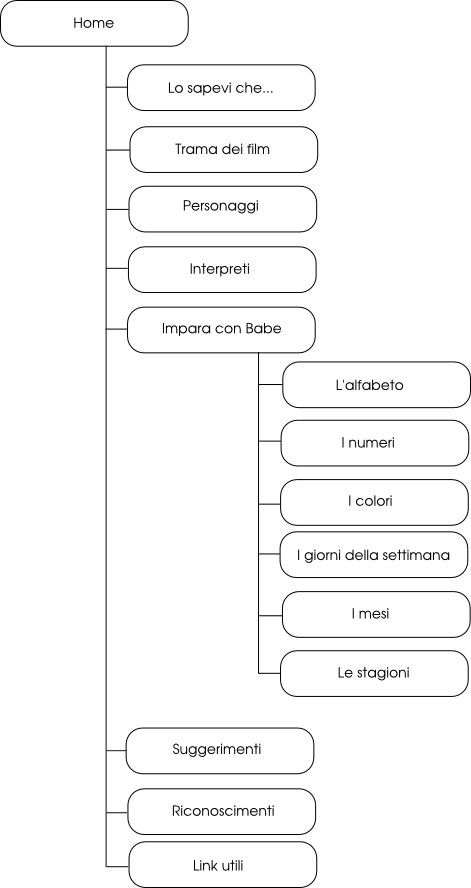
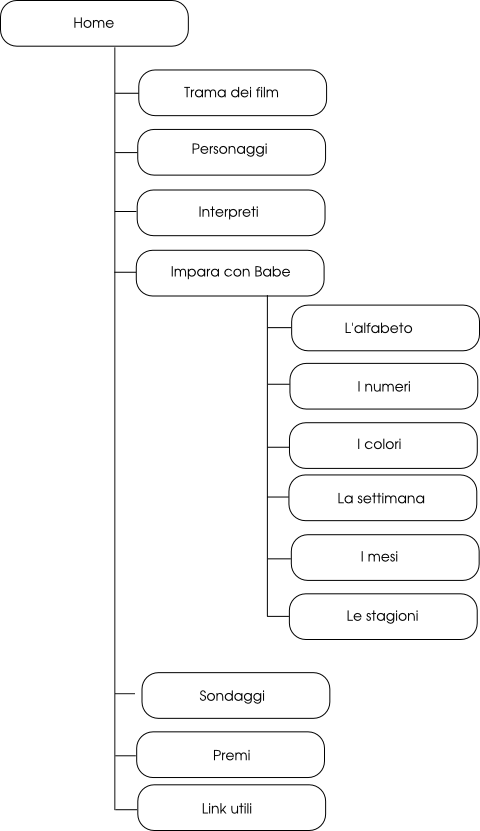
ultime modifiche

Changed region(s): [[0.0, 0.0, 1.0, 1.0]]

diff --git a/Sito Babe/public_html/NormalLayout.css b/Sito Babe/public_html/NormalLayout.css
@@ -161,7 +161,7 @@ table.interpreti {
 	font-size: .9em;
 }
 th {
-	background-color: rgba(246, 195, 102, 0.4);
+	background-color: rgba(255, 255, 204, 0.4);
 	border-width: 2px;
 	border-style: solid;
 	border-color: #000000;
@@ -171,10 +171,10 @@ td {
 	padding-right: 1em;
 }
 tr {
-	background-color: rgba(252, 204, 111, 0.4);
+	background-color: rgba(252, 204, 153, 0.4);
 }
 tr.alt {
-	background-color: rgba(255, 255, 255, 0.1);
+	background-color: rgba(255, 255, 204, 0.1);
 }
 
 a.skip {

diff --git a/Sito Babe/public_html/Relazione/Relazione.tex b/Sito Babe/public_html/Relazione/Relazione.tex
@@ -139,14 +139,12 @@ Si tratta di un sito didattico che ha lo scopo di sensibilizzare i bambini sul t
 \clearpage
 
 \section{Analisi dei requisiti}
-Il sito è stato pensato per avere come target di utenti i bambini. Essendoci contenuti adatti a bambini anche molto piccoli, è chiaro che la consultazione si presume avvenga tramite altre persone quali gli insegnanti o i genitori dei bimbi. 
-Il sito offre delle schede didattiche che hanno lo scopo di aiutare insegnanti e/o genitori a spiegare i primi rudimenti ai bambini.
-In particolare, il sito potrebbe essere utilizzato dalle strutture che dispongono di LIM (lavagne interattive multimediali).
-Essendo un sito rivolto ai bambini si è cercato di renderlo simpatico e colorato soprattutto tramite l'inserimento di molte immagini. Inoltre si sono usati caratteri abbastanza grandi, per permettere ai bambini di vedere con facilità.
+Il sito è stato pensato per avere come target di utenti di riferimento i bambini. Essendoci contenuti adatti a bambini anche molto piccoli, si è fatta inoltre l'assunzione che la consultazione possa avvenire tramite altre persone quali gli insegnanti o i genitori dei bimbi tanto in sede domestica che scolastica. 
 
-% chi sono i destinatari del sito, quali sono le loro necessita' e come le soddisfiamo
-% font, colori, immagini
-% sito pensato per lavagne interattive multimediali (LIM) per essere utilizzata negli asili
+Il sito offre una vasta gamma di schede didattiche che hanno lo scopo di aiutare insegnanti e/o genitori a spiegare i primi rudimenti ai bambini.
+In particolare, il sito potrebbe essere utilizzato da strutture che dispongono di LIM (lavagne interattive multimediali).
+
+Trattandosi di un sito rivolto ai più piccoli, si è cercato di renderlo simpatico, colorato e accattivante agli occhi di un pubblico infantile soprattutto tramite l'inserimento di molte immagini. Inoltre sono stati utilizzati caratteri dalle dimensioni sufficientemente grandi, per permettere ai bambini di vedere con facilità anche in fase di apprendimento della lettura.
 
 \subsection{Scelte per il posizionamento sui motori di ricerca}
 Nella progettazione del sito, alcune scelte sono state dettate dall'esigenza di attuare strategie di ottimizzazione per i motori di ricerca.
@@ -162,7 +160,7 @@ In terzo luogo, come sarà illustrato con maggiori dettagli nella sezione \ref{s
 
 Infine, si è posta particolare attenzione all'utilizzo dei tag \texttt{<meta>}, in particolare \texttt{description}, \texttt{keywords} e \texttt{rating}. È stata infatti inserita una descrizione significativa specifica per ogni singola pagina, pensata per essere accattivante se visualizzata in una SERP (\inglese{search engine response page}).
 
-Le parole chiave sono state selezionate in modo specifico per ogni pagina, scegliendo tra i termini che compaiono nelle posizioni più ``prominenti'' (intestazioni, elenchi, collegamenti, enfasi) ed effettivamente presenti nel contenuto della pagina. Inoltre, il numero di parole chiave è stato mantenuto contenuto a un numero inferiore a dieci.
+Le parole chiave sono state selezionate anch'esse in modo specifico per ogni pagina, scegliendo tra i termini che compaiono nelle posizioni più ``prominenti'' (intestazioni, elenchi, collegamenti, enfasi) ed effettivamente presenti nel contenuto della pagina. Inoltre, il numero di parole chiave è stato mantenuto contenuto a un numero inferiore a dieci.
 
 La valutazione del contenuto di tutte le pagine è stata impostata a \texttt{safe for kids}, una scelta le cui ragioni sono da ravvisarsi nel fatto che il sito ha una finalità didattica per bambini, e quindi gli autori hanno tutto l'interesse a presentare contenuti sicuri e adatti al pubblico dei più piccoli.
 
@@ -191,7 +189,7 @@ Nei livelli sottostanti della gerarchia si è invece adottata la struttura organ
 Pur essendo il sito orientato alla didattica, non si è ritenuta necessaria l'adozione di una struttura organizzativa sequenziale perché gli insegnamenti impartiti sono talmente basilari e scorrelati gli uni dagli altri da non necessitare l'imposizione di un percorso obbligato.
 
 \subsection{Layout delle pagine}
-Per quanto riguarda il \inglese{design} delle pagine, la scelta per il dimensionamento degli elementi è stata la creazione di un \inglese{layout} fluido, in grado di adattarsi alle dimensioni (in particolare sull'asse orizzontale) dello schermo. Ovunque fosse possibile le misure sono state espresse in unità relative, come le percentuali tanto per la dimensione dei contenitori di testo quanto per le immagini.
+Per quanto riguarda il \inglese{design} delle pagine, la scelta per il dimensionamento degli elementi è stata la creazione di un \inglese{layout} fluido, in grado di adattarsi alle dimensioni (in particolare sull'asse orizzontale) dello schermo. Ovunque fosse possibile le misure sono state espresse in unità relative, come le percentuali, tanto per la dimensione dei contenitori di testo quanto per le immagini.
 
 % TODO spiegare come è stato ottenuto l'effetto dello sfondo a parallasse
 
@@ -203,7 +201,7 @@ In relazione al supporto ai caratteri, si è scelto di utilizzare nel foglio di 
 \end{verbatim}
 in modo da assicurare una visualizzazione simile su ogni dispositivo indipendentemente dal sistema operativo e dai font tipografici supportati.
 
-Per assicurare un buon grado di uniformità nella visualizzazione dei colori si sono utilizzati esclusivamente colori \inglese{web-safe} vale a dire i colori che nella loro rappresentazione esadecimale contengono solo le cifre \verb+0+, \verb+3+, \verb+6+, \verb+9+, \verb+c+ e \verb+f+.
+Per assicurare un buon grado di uniformità nella visualizzazione dei colori si sono utilizzati esclusivamente colori \inglese{web-safe} vale a dire i colori che nella loro rappresentazione esadecimale contengono solo le cifre \verb+0+, \verb+3+, \verb+6+, \verb+9+, \verb+c+ e \verb+f+ (ripetute).
 
 Per garantire una trasformazione elegante del \inglese{layout} in tutte le circostanze e, in particolare:
 \begin{enumerate}[noitemsep,nolistsep,label=\emph{\alph*})]
@@ -217,23 +215,21 @@ Infine è stato predisposto un CSS alternativo per i \inglese{media} paginati e,
 
 Inoltre, dal momento che su carta le funzionalità ipertestuali o di navigazione si trovano per loro natura ad essere snaturate, è stato rimosso il menu di navigazione e i collegamenti sono stati uniformati al resto del contenuto testuale.
 
+\clearpage
 \section{Mappa del sito}
-\begin{figure}[tb]
-\centering
-\includegraphics[width=.8\textwidth]{mappasito.png}
-\caption{Organizzazione delle pagine del sito}
-\end{figure}
+\includegraphics[width=.9\textwidth]{mappasito.png}
+
 
 \clearpage
 
 \section{Accessibilità}\label{sec:accessibility}
 
 \subsection{Il testo}\label{sec:testoaccessibile}
-Per quanto riguarda il testo si è cercato di fare particolare attenzione alla dimensione e ai font utilizzati. Infatti, essendo un sito per bambini è bene avere un testo facilmente leggibile sia in relazione alla dimensione che ai font utilizzati.
+Per quanto riguarda il testo, si è cercato di fare particolare attenzione alla dimensione e ai font utilizzati. Infatti, essendo un sito per bambini è bene avere un testo facilmente leggibile sia in relazione alla dimensione che ai font utilizzati.
 
 Non si sono infatti impiegati font particolari e le dimensioni del testo sono assegnate con il parametro \texttt{em} che permette l'adattamento del testo in base alle caratteristiche desiderate dall'utente.  
 
-Si è inoltre cercato di utilizzare un linguaggio il più chiaro possibile visto che il pubblico a cui ci si rivolge sono i bambini è ancor più importante essere chiari e semplici.
+Si è inoltre cercato di utilizzare un linguaggio il più chiaro possibile, visto che il pubblico a cui ci si rivolge sono i bambini è ancor più importante essere chiari e semplici.
 
 Infine, laddove possibile, si è fatto uso di strutture enumerative (liste ordinate o non ordinate) per presentare le informazioni in forma schematica e più facilmente accessibile in quanto già strutturata e non ``appiattita'' in forma testuale.
 
@@ -244,19 +240,21 @@ In questo modo l'utente non è in alcun modo indotto in errore. Considerando che
 In particolare nella pagina \sitepage{ImparaConBabe.html} sono usate delle immagini per anticipare all'utente il contenuto della pagina di destinazione del link.
 Le immagini costituiscono un link insieme al testo  e perciò la zona su cui è necessario cliccare per accedere alle pagine è sufficientemente ampia da poter essere accessibile anche dalle persone che hanno difficoltà nel muovere il mouse.
 
-All'interno del sito sono presenti dei link esterni, in questo caso si è segnalato esplicitamente tramite l'immagine di un mondo che il link porta all'esterno del sito (ad esempio \sitepage{Stagioni.html}). Tale convenzione interna è stata mantenuta per tutte le pagine in cui comparivano dei collegamenti esterni, con il preciso intento di non deludere le aspettative dell'utente.
+All'interno del sito sono presenti dei link esterni, in questo caso si è segnalato esplicitamente tramite l'immagine di un mondo che il link porta all'esterno del sito (ad esempio \sitepage{Stagioni.html} o in \sitepage{LinkUtili.html}). Tale convenzione interna è stata mantenuta per tutte le pagine in cui comparivano dei collegamenti esterni, con il preciso intento di non deludere le aspettative dell'utente.
 
-Le pagine di dimensione verticale maggiore, ad esempio \sitepage{Alfabeto.html}, \sitepage{Mesi.html} o \sitepage{Trama.html} contengono inoltre dei collegamenti interni per tornare in cima alla pagina durante la navigazione. La pagina dei \sitepage{Personaggi.html}, oltre a questo tipo di collegamenti, permette di spostarsi da un personaggio all'altro durante la lettura. La pagina \sitepage{Mesi.html} contiene una filastrocca sui mesi che contiene un collegamento per ogni mese. La stessa cosa avviene per la pagina \sitepage{Giorni.html}, che contiene però una filastrocca sui giorni, con relativi collegamenti. Si è utilizzata tale tecnica solo con il fine di presentare la pagina in modo simpatico e permettere di muoversi liberamente all'interno delle pagine.
+Le pagine di dimensione verticale maggiore, ad esempio \sitepage{Alfabeto.html}, \sitepage{Mesi.html} o \sitepage{Trama.html} contengono inoltre dei collegamenti interni per tornare in cima alla pagina durante la navigazione. La pagina dei \sitepage{Personaggi.html}, oltre a questo tipo di collegamenti, permette di spostarsi da un personaggio all'altro durante la lettura.
 
+La pagina \sitepage{Mesi.html} contiene una filastrocca sui mesi che presenta un collegamento per ogni mese. La stessa cosa avviene per la pagina \sitepage{Giorni.html}, che contiene però una filastrocca sui giorni, con relativi collegamenti. Si è utilizzata tale tecnica solo con il fine di presentare la pagina in modo simpatico e permettere di muoversi liberamente all'interno delle pagine.
 
+Per rendere più rapida la navigazione si è scelto di offrire la possibilità di saltare gli elementi che esulano dal contenuto in senso stretto, ovvero il menu di navigazione, che si ripete uguale in ogni pagina e che dunque non necessita di essere letto ogni volta.
 
-Per rendere più rapida la navigazione si è scelto di offrire la possibilità di saltare gli elementi che esulano dal contenuto in senso stretto, quali il menu di navigazione o la lista dei \inglese{feed RSS} che si ripetono uguali in ogni pagina e che dunque non necessitano di essere letti ogni volta. A tal fine, sono stati inseriti dei collegamenti nascosti (impostando una posizione assoluta che ecceda il margine sinistro), che però risultano accessibili se si legge il solo contenuto testuale della pagina.
+A tal fine, sono stati inseriti dei collegamenti nascosti (impostando una posizione assoluta che ecceda il margine sinistro), che però risultano accessibili se si legge il solo contenuto testuale della pagina.
 
-Si è inoltre prestata particolare attenzione a evitare la presenza di link circolari, a rendere il testo delle ancore facilmente individuabile e, soprattutto, sufficientemente autoesplicativo riguardo alla posizione di destinazione (evitando accuratamente di utilizzare parole ``vuote'' o deittici come testo dei link).
-Inoltre, si è fatta attenzione a non rendere i link presenti nella \inglese{breadcrumbs}\footnote{%
-   \inglese{Breadcrumbs} significa letteralmente ``briciole di pane''. Si tratta di una tecnica utilizzata per aiutare l'utente a non perdersi all'interno del sito, fornendogli le traccie del percorso esplorativo da lui effettuato, proprio come Pollicino aveva lasciato le briciole di pane nel bosco per poter ritrovare la strada di casa.}adiacenti, separandoli tramite il carattere ``>''
+Si è inoltre prestata particolare attenzione a evitare la presenza di link circolari e a rendere il testo dei collegamenti facilmente individuabile e, soprattutto, sufficientemente autoesplicativo (evitando accuratamente di utilizzare parole ``vuote'' o deittici come ``clicca qui'').
+Inoltre, si è fatta attenzione a non rendere i link presenti nelle \inglese{breadcrumbs}\footnote{%
+   \inglese{Breadcrumbs} significa letteralmente ``briciole di pane''. Si tratta di una tecnica utilizzata per aiutare l'utente a non perdersi all'interno del sito, fornendogli le tracce del percorso esplorativo da lui effettuato, proprio come Pollicino aveva lasciato le briciole di pane nel bosco per poter ritrovare la strada di casa.} adiacenti, separandoli tramite il carattere ``>''
 
-Per facilitare la navigazione fra le pagine attraverso i collegamenti ipertestuali è stato impostato l'attributo \texttt{tabindex} per i link del menu principale e delle \inglese{breadcrumbs}, nonché per il collegamento `Salta al contenuto' che non è direttamente visibile sulle pagine.
+Per facilitare la navigazione fra le pagine attraverso i collegamenti ipertestuali è stato impostato l'attributo \texttt{tabindex} per i link del menu principale e delle \inglese{breadcrumbs}, nonché per il collegamento ``Salta al contenuto'' che non è direttamente visibile sulle pagine.
 
 Si è scelto invece di non inserire alcuna \inglese{access key} perché sarebbe stato difficile trovare delle combinazioni da tastiera non già assegnate dalle applicazioni o dagli ambienti desktop e, inoltre, perché si è valutato il sito sufficientemente navigabile anche senza questa opzione.
 
@@ -292,16 +290,14 @@ I form che compaiono nella sezione \sitepage{Sondaggi.html} del sito sono stati 
 
 In secondo luogo, tutti gli elementi \texttt{<input>} sono corredati dalla rispettiva \texttt{<label>} che permette di associare un'etichetta informativa relativamente alla tipologia di valori attesi dal campo di inserimento, semplificando l'interazione con l'utente anche nel caso in cui questi ricorra all'uso di tecnologie di accesso universale.
 
-%TODO tabindex
-%TODO aiuti per dati inseriti erroneamente
-%TODO title
+Infine, è stata predisposta una pagina che visualizza gli errori nel caso in cui la form non sia stata compilata correttamente.
 
 \subsection{Le tabelle}
-Le tabelle che compaiono nella sezione \sitepage{Interpreti.html} sono state progettate per essere fruibili anche in forma non visuale, mediante l'utilizzo dell'attributo \texttt{scope} rispettivamente con il valore \texttt{col} per le intestazioni delle colonne e con il valore \texttt{row} per la testata di ogni riga, ovvero il personaggio di cui si elencano gli attori della versione originale e i doppiatori della versione italiana.
+Le tabelle che compaiono nella sezione \sitepage{Interpreti.html} sono state progettate per essere fruibili anche in forma non visuale, mediante l'utilizzo dell'attributo \texttt{scope} rispettivamente con il valore \texttt{col} per le intestazioni delle colonne e con il valore \texttt{row} per l'intestazione di ogni riga, ovvero il personaggio di cui si elencano gli attori della versione originale e i doppiatori della versione italiana.
 
 Tramite un simile accorgimento, chi accede al contenuto del sito mediante un sintetizzatore vocale potrà sentire prima del contenuto di ogni cella l'indicazione del personaggio a cui si riferisce l'informazione (che corrisponde all'indice di riga) e il ruolo che viene presentato (che corrisponde alla colonna) anche in assenza delle informazioni che normalmente vengono veicolate dalla disposizione spaziale del testo.
 
-L'organizzazione delle informazioni nella tabella è resa ancor più chiara dall'attributo \texttt{summary}, in cui oltre a giustificare la suddivisione in righe e colonne è illustrato brevemente il contenuto della tabella, in modo tale che chi accede al contenuto tramite uno \inglese{screen reader} possa saltare il contenuto qualora non interessato.
+L'organizzazione delle informazioni nella tabella è resa ancor più chiara dall'attributo \texttt{summary}, in cui oltre a giustificare la suddivisione in righe e colonne è illustrato brevemente il contenuto della tabella, in modo tale che chi accede al contenuto tramite uno \inglese{screen reader} possa saltare il testo qualora non interessato.
 
 Al fine di utilizzare un \inglese{markup} quanto più semantico possibile, inoltre, in ognuna delle due tabelle si è fatto ricorso a un elemento \texttt{<thead>} per creare le intestazioni delle tre colonne, in cui sono stati inseriti come figli di secondo livello degli elementi \texttt{<th>}. L'utilizzo di un \inglese{footer} non è invece stato ritenuto necessario, dal momento che il numero di righe è piuttosto ridotto (otto nella tabella degli interpreti e dieci in quella delle voci degli animali). Infine, come ultimo accorgimento per agevolare la lettura, si è scelto di alternare i colori delle righe adiacenti.
 
@@ -310,24 +306,23 @@ In tutte le pagine, le parole che comparivano in lingue diverse da quella princi
 
 In tal modo gli \inglese{screen reader} saranno in grado di adottare la pronuncia corretta, in special modo per i numerosi nomi dei personaggi che hanno mantenuto il nome originale anche nella versione doppiata dei film.
 
-Inoltre, ancora una volta allo scopo di facilitare la fruizione del contenuto a chi accede al sito tramite tecnologie di sintesi vocale, le eventuali sigle o abbreviazioni, ad esempio ``RSS'' sono stati inseriti all'interno di un elemento \texttt{<abbr>} in cui tramite l'attributo \texttt{title} si fornisce la dicitura per esteso.
-\subsubsection{Risconti sui test effettuati con gli screen reader}
+\subsubsection{Riscontri sui test effettuati con gli screen reader}
 Al fine di garantire l'accessibilità al sito, in particolare per le persone con disabilità visive, si sono effettuati dei test con due  \inglese{screen reader} differenti. 
 Si è volta particolare attenzione al controllo della fruibilità di:
 \begin{itemize}[noitemsep,nolistsep]
   \item[-] menu;
   \item[-] tabelle;
   \item[-] immagini;
-  \item[-] pronunce linguistiche corrette;
+  \item[-] pronunce linguistiche corrette.
 \end{itemize}
 
-Per quanto riguarda il menu, si è controllato che lo \inglese{screen reader} accedesse al menu secondo l'ordine stabilito e che legga in particolare la voce salta menu, non visibile direttamente nella pagina ma fondamentale per le persone con problemi visivi, che altrimenti sarebbero costrette ad una forzata rilettura delle voci del menu per ogni accesso alle pagine. Il riscontro in questo caso è stato positivo.
+Per quanto riguarda il menu, si è controllato che lo \inglese{screen reader} accedesse al menu secondo l'ordine stabilito e che legga in particolare la voce ``salta menu'', non visibile direttamente nella pagina ma fondamentale per le persone con problemi visivi, che altrimenti sarebbero costrette ad una forzata rilettura delle voci del menu per ogni accesso alle pagine. Il riscontro in questo caso è stato positivo.
 
-Per quanto riguarda le tabelle si è controllato che lo \inglese{screen reader} leggesse correttamente le intestazioni di riga e di colonna prima di leggere il contenuto delle celle. Purtroppo tale riscontro non ha avuto esito positivo. Tuttavia, avendo seguito tutte le regole per ottenere tabelle accessibili, si ritiene che l'esito negativo del test derivi dal fatto che gli screen-reader utilizzati sono strumenti gratuiti e di conseguenza probabilmente non godono di tutte le funzionalità.
+Per quanto riguarda le tabelle si è controllato che lo \inglese{screen reader} leggesse correttamente le intestazioni di riga e di colonna prima di leggere il contenuto delle celle. Purtroppo tale riscontro non ha avuto esito positivo. Tuttavia, avendo seguito tutte le regole per ottenere tabelle accessibili, si ritiene che l'esito negativo del test derivi dal fatto che gli \inglese{screen reader} utilizzati sono strumenti gratuiti e di conseguenza probabilmente non godono di tutte le funzionalità.
 
-Per quanto riguarda invece le immagini, i test hanno avuto un riscontro positivo. Si è controllato che lo \inglese{screen reader} leggesse il valore degli attributi \texttt{alt} dove presente. Inoltre si è cercato di capire tramite l'uso di \inglese{screen reader} se il contenuto del sito senza la visione di immagine fosse mantenuto.
+Per quanto riguarda invece le immagini, i test hanno avuto un riscontro positivo. Si è controllato che lo \inglese{screen reader} leggesse il valore degli attributi \texttt{alt} ove presenti. Inoltre si è cercato di capire tramite l'uso di \inglese{screen reader} se il contenuto del sito senza la visione di immagine fosse mantenuto.
 
-Per quanto riguarda la correttezza nella pronuncia di parole appartenenti ad altre lingue, purtroppo il test ha dato esito negativo. Entrambe gli \inglese{screen reader} utilizzati non distinguono il cambiamento di lingua impostato tramite l'attributo  \texttt{xml:lang}.  Anche in questo caso si pensa che la colpa sia del fatto che gli strumenti utilizzati sono gratuiti.
+Per quanto riguarda la correttezza nella pronuncia di parole appartenenti ad altre lingue, purtroppo il test ha dato esito negativo. Entrambi gli \inglese{screen reader} utilizzati non distinguono il cambiamento di lingua impostato tramite l'attributo  \texttt{xml:lang}.  Anche in questo caso si pensa che la colpa sia del fatto che gli strumenti utilizzati sono gratuiti.
 
 \section{Note}
 \subsection{Note sulle pagine Mesi e Giorni}
@@ -339,7 +334,9 @@ Infatti usando il tag \texttt{<pre>} viene disabilitato il ritorno a capo automa
 
 \subsection{Note sul titolo}
 
-Per quanto riguarda il titolo, si è scelto di non utilizzare tecniche di \inglese{image replacement}, penalizzando così la grafica, per mantenere l'accessibilità. Le tecniche di \inglese{image replacement} anche se sono in grado di permettere al sito di avere una buona grafica pur mantenendo un certo grado di accessibilità, comunque la penalizzano in qualche modo. Infatti, utilizzando tali tecniche si dovrebbe rinunciare o ad un buon ridimensionamento oppure alla sicurezza assoluta che sia conservato il contenuto in quanto se le immagini dovessero essere disabilitate allora non si potrebbe più leggere il titolo e di conseguenza non si potrebbe più rispondere alla domanda ``dove sono?''. Quindi, si è scelto di avere un titolo non pienamente appagabile dal punto di vista estetico ma che fornisce una sicurezza nel suo mantenimento.
+Per quanto riguarda il titolo, si è scelto di non utilizzare tecniche di \inglese{image replacement}, penalizzando così la grafica, per mantenere l'accessibilità. Le tecniche di \inglese{image replacement} anche se sono in grado di permettere al sito di avere una buona grafica pur mantenendo un certo grado di accessibilità, comunque la penalizzano in qualche modo.
+
+Infatti, utilizzando tali tecniche si dovrebbe rinunciare o ad un buon ridimensionamento oppure alla sicurezza assoluta che sia conservato il contenuto in quanto se le immagini dovessero essere disabilitate allora non si potrebbe più leggere il titolo e di conseguenza non si potrebbe più rispondere alla domanda ``dove sono?''. Quindi, si è scelto di avere un titolo non pienamente appagante dal punto di vista estetico ma che fornisce una sicurezza nel suo mantenimento.
 
 \section{Strumenti ultilizzati}\label{sec:strumenti}
 
@@ -367,7 +364,9 @@ I risultati ottenuti sono compresi, rispettivamente, tra 9.4 : 1 e 21:1, tra 207
 
 L'estensione \progname{Accessibility Evaluation Tool} per Firefox ha reso inoltre possibile testare la visualizzazione delle varie pagine rimuovendo il CSS definito dall'utente, con contrasto elevato (B/W e W/B), rimuovendo le immagini di sfondo, le immagini di contenuto o tutte le immagini al fine di constatare la fruibilità dei contenuti anche in contesti diversi da quello di usuale visualizzazione.
 
-L'estensione \progname{Web Developer} per Firefox è stata utilizzata per testare i CSS alternativi a quello principale, e in particolare quello per la stampa. Infine, tramite il browser testuale \progname{w3m} è stata inoltre testata la navigabilità del sito in modalità solo testo. 
+L'estensione \progname{Web Developer} per Firefox è stata utilizzata per testare i CSS alternativi a quello principale, e in particolare quello per la stampa. Inoltre, tramite il browser testuale \progname{w3m} è stata testata la navigabilità del sito in modalità solo testo.
+
+Infine, è stato utilizzato lo strumento \progname{IE Tester} per testare la visualizzazione del sito con Internet Explorer a partire dalla versione 5. 
 
 \section{Pagine dinamiche}
 
@@ -383,12 +382,12 @@ Il sito si basa su una mini base di dati realizzata mediante XML. Nello specific
 	\item di ogni commento interessa conoscere il nome e la mail dell'utente che l'ha eseguito, la data in cui è stato redatto e ovviamente il testo del commento.
 \end{itemize}
 
-I dati conformi a tale schema saranno raccolti nel file XML Sondaggi.xml. Questo file viene usato nelle seguenti occasioni:
+I dati conformi a tale schema saranno raccolti nel file XML \texttt{Sondaggi.xml}. Questo file viene usato nelle seguenti occasioni:
 
 \begin{itemize}
-	\item dallo pagina FormCreator.html, nel momento in cui deve essere generata (lato server) la form per l'inserimento dei commenti e per rispondere alle domande del sondaggio;
-	\item dalla pagina FormCreator.html, nel momento in cui devono essere riportati, sotto alla sezione dedicata al form, i commenti inseriti dagli altri visitatori del sito;
-	\item dallo script addComment.cgi, nel momento in cui l'utente avrà cliccato il pulsante di submit per inviare al server i dati inseriti nella form. Lo script si occupera della loro validazione e della loro registrazione in Sondaggi.xml.
+	\item dallo pagina \sitepage{FormCreator.html}, nel momento in cui deve essere generata (lato server) la form per l'inserimento dei commenti e per rispondere alle domande del sondaggio;
+	\item dalla pagina \sitepage{FormCreator.html}, nel momento in cui devono essere riportati, sotto alla sezione dedicata al form, i commenti inseriti dagli altri visitatori del sito;
+	\item dallo script \texttt{addComment.cgi}, nel momento in cui l'utente avrà cliccato il pulsante di submit per inviare al server i dati inseriti nella form. Lo script si occuperà della loro validazione e della loro registrazione in \sitepage{Sondaggi.xml}.
 \end{itemize}
 
 \subsection{Utilizzo Perl}
@@ -399,12 +398,12 @@ Il sito fa uso di due fondamentali script Perl.
 \end{itemize}
 
 \subsubsection{ShowSounding.cgi}
-E' la pagina richiamata dal menù principale ed ha il compito di generare lato server la pagina dei sondaggi. Tale scelta è dovuta per non perdere gli utenti che utilizzano Google Chrome come browser per la navigazione nel web e non perdere la possibilità di essere indicizzati dai motori di ricerca in quanto non sono in grado di interpretare un file xml. Lo script Perl esegue i seguenti step:
+È la pagina richiamata dal menu principale ed ha il compito di generare lato server la pagina dei sondaggi. Tale scelta è dovuta al fatto che non si desidara perdere gli utenti che utilizzano Google Chrome come browser per la navigazione nel web e non perdere la possibilità di essere indicizzati dai motori di ricerca in quanto non sono in grado di interpretare un file XML. Lo script Perl esegue i seguenti step:
 \begin{itemize}
-	\item viene recuperato dal disco il file 'Sondaggi.xml' contenente i dati del sondaggio da proporre agli utenti;
-	\item viene recuperato  dal disco il file 'FormCreator.xsl' contenente le regole per trasformare il file xml in un documento html visualizzabile da un browser;
+	\item viene recuperato dal disco il file \sitepage{Sondaggi.xml} contenente i dati del sondaggio da proporre agli utenti;
+	\item viene recuperato  dal disco il file \texttt{FormCreator.xsl} contenente le regole per trasformare il file XML in un documento HTML visualizzabile da un browser;
 	\item vengono entrambi elaborati in modo da avere in memoria la struttura ad albero di entrambi i file;
-	\item viene creato un oggetto in grado di applicare le regole xslt;
+	\item viene creato un oggetto in grado di applicare le regole XSLT;
 	\item viene eseguita la trasformazione;
 	\item infine viene restituito al browser il risultato della trasformazione, ossia la pagina con il form per compilare il sondaggio.
 \end{itemize}
@@ -412,14 +411,14 @@ E' la pagina richiamata dal menù principale ed ha il compito di generare lato s
 \subsubsection{addComment.cgi}
 Viene usato dalla pagina sondaggi per inviare i dati inseriti dall'utente. Lo script richiamato in seguito all'evento click sull'oggetto d'input submit, riceve i dati per mezzo di metodo POST e si occupa di eseguire i seguenti step:
 \begin{itemize}
-  \item vengono da prima definite le librerie di cui lo script necessita;
+  \item vengono dapprima definite le librerie di cui lo script necessita;
   \item quindi si creano le variabili atte a contenere i dati inviati dall'utente;
   \item tramite una richiesta alla pagina CGI precedentemente creata, ricava i valori dalla form e li assegna alle corrispettive variabili;
   \item si procede testando le variabili ed identificando la presenza di errori;
-  \item se l'inserimento è andato a buon fine allora si procede aggiornando in Sondaggi.xml il tag <votanti> relativo alle corrispettive <scelte> sulle <domande> a cui ha risposto l'utente;
-  \item per ogni domanda si apre il file Sondaggi.xml e si aggiorna la voce votanti;
-  \item quindi si passa alla creazione di un tag <commento> sulla base dei dati: utente, mail, data (il cui valore è creato precedentemente mediante l'uso della funzione localtime()) e il testo stesso del commento;
-  \item quindi si termina con l'inserimento del commento e la chiusura del file. Infine lo script reindirizza alla pagina di Conferma.html.
+  \item se l'inserimento è andato a buon fine allora si procede aggiornando in \sitepage{Sondaggi.xml} il tag <votanti> relativo alle corrispettive <scelte> sulle <domande> a cui ha risposto l'utente;
+  \item per ogni domanda si apre il file \sitepage{Sondaggi.xml} e si aggiorna la voce votanti;
+  \item quindi si passa alla creazione di un tag <commento> sulla base dei dati: utente, mail, data (il cui valore è creato precedentemente mediante l'uso della funzione \texttt{localtime()}) e il testo stesso del commento;
+  \item quindi si termina con l'inserimento del commento e la chiusura del file. Infine lo script reindirizza alla pagina di \sitepage{Conferma.html}.
 \end{itemize}
 
 \clearpage
@@ -431,24 +430,24 @@ Viene usato dalla pagina sondaggi per inviare i dati inseriti dall'utente. Lo sc
 Dopo essere emersa la necessità di gestire una mini base di dati, la creazione della medesima è avvenuta seguendo le seguenti fasi/procedure:
 \begin{itemize}
 	\item identificazione dei requisiti essenziali: capire cosa si intende rappresentare mediante il file xml e quali sono le ``realtà'' che andranno a farne uso;
-	\item creazione di un apposito xml schema atto a rappresentare la realtà evidenziata;
-	\item controllo di formattazione del xml schema;
+	\item creazione di un apposito XML Schema atto a rappresentare la realtà evidenziata;
+	\item controllo di formattazione del XML Schema;
 	\item validazione del medesimo;
-	\item creazione di un file Sondaggi.xml conforme allo schema determinato nei punti precedenti.
+	\item creazione di un file \sitepage{Sondaggi.xml} conforme allo schema determinato nei punti precedenti.
 \end{itemize}
 
 Come già accennato, il gruppo ha deciso di costruire uno schema con il modello tende alla veneziana, supponendo un futuro riutilizzo dei suoi componenti.
 
 \subsection{Norme di sviluppo CSS}
 
-Il sito basa la gestione del proprio layout grafico su due fogli di stile CSS: NormalLayout.css e SmallLayout.css. Il primo viene usato per gestire una normale visione su schermo avente una larghezza superiore a 52em. Il secondo foglio invece si occupa di adattare la pagina nel momento in cui questa raggiunge una larghezza inferiore a 52em, e viene caricato sui dispositivi mobile. Nel progettare e sviluppare tali CSS si sono tenute in considerazione le seguenti norme:
+Il sito basa la gestione del proprio layout grafico su tre fogli di stile CSS: \texttt{NormalLayout.css}, \texttt{PrintLayout.css} e \texttt{SmallLayout.css}. Il primo viene usato per gestire una normale visione su schermo avente una larghezza superiore a \texttt{52em}. Il secondo ha lo scopo di definire la formattazione per la stampa. Il terzo foglio infine si occupa di adattare la pagina nel momento in cui questa raggiunge una larghezza inferiore a \texttt{52em}, e viene caricato sui dispositivi mobile. Nel progettare e sviluppare tali CSS si sono tenute in considerazione le seguenti norme:
 
 \begin{itemize}
   \item Privilegiare il contenuto del sito, sacrificando (nel caso) alcuni effetti CSS ``accattivanti'' ma che penalizzano la lettura del contenuto.
-  \item Mai usare CSS embedded o inline, ma creare file CSS da richiamare mediante link nel documento html.
+  \item Mai usare CSS embedded o inline, ma creare file CSS da richiamare mediante link nel documento HTML.
   \item Al termine di ogni modifica significativa, ripetere il test di validazione del W3C.
-  \item Mai abusare degli elementi <div>. È giusto crearli per evidenziare la presenza di una ``regione semantica'' rilevante, o nel caso che il layout grafico richieda particolari effetti flottanti, ma si esorta i componenti a non usarlo la dove possibile.
-  \item Nel scegliere i nomi da dare alle classi, tenere in considerazione che tali dovrebbero esprimere il significato dell'oggetto su cui si applicherà, e non le caratteristiche di visualizzazione poiché tali sono mutevoli e potrebbero cambiare in futuro (e.g. se si intende rappresentare una <label> con una certa colorazione, non si dovrà chiamare .labelRossa, ma bensì .etichetta, presupposto il fatto che ci interessa rappresentarla come un etichetta che contraddistingue un determinato <input>).
+  \item Mai abusare degli elementi \texttt{<div>}. È giusto crearli per evidenziare la presenza di una ``regione semantica'' rilevante, o nel caso che il \inglese{layout} grafico richieda particolari effetti flottanti, ma si esorta i componenti a non usarlo la dove possibile.
+  \item Nel scegliere i nomi da dare alle classi, tenere in considerazione che tali dovrebbero esprimere il significato dell'oggetto su cui si applicherà, e non le caratteristiche di visualizzazione poiché tali sono mutevoli e potrebbero cambiare in futuro (e.g. se si intende rappresentare una \texttt{<label>} con una certa colorazione, non si dovrà chiamare \texttt{.labelRossa}, ma bensì \texttt{.etichetta}, presupposto il fatto che ci interessa rappresentarla come un etichetta che contraddistingue un determinato \texttt{<input>}).
 \end{itemize}
 
 \subsubsection{Versione CSS}
